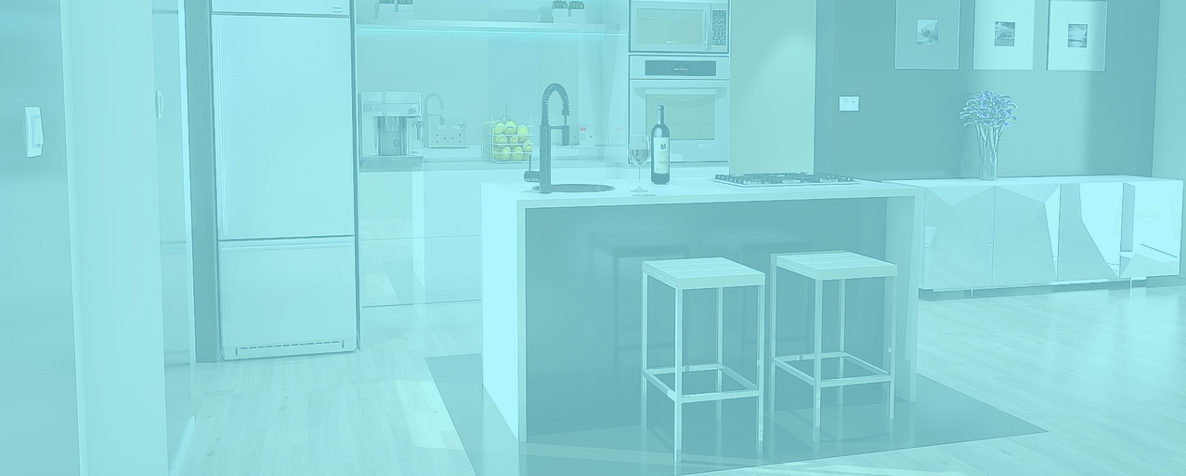
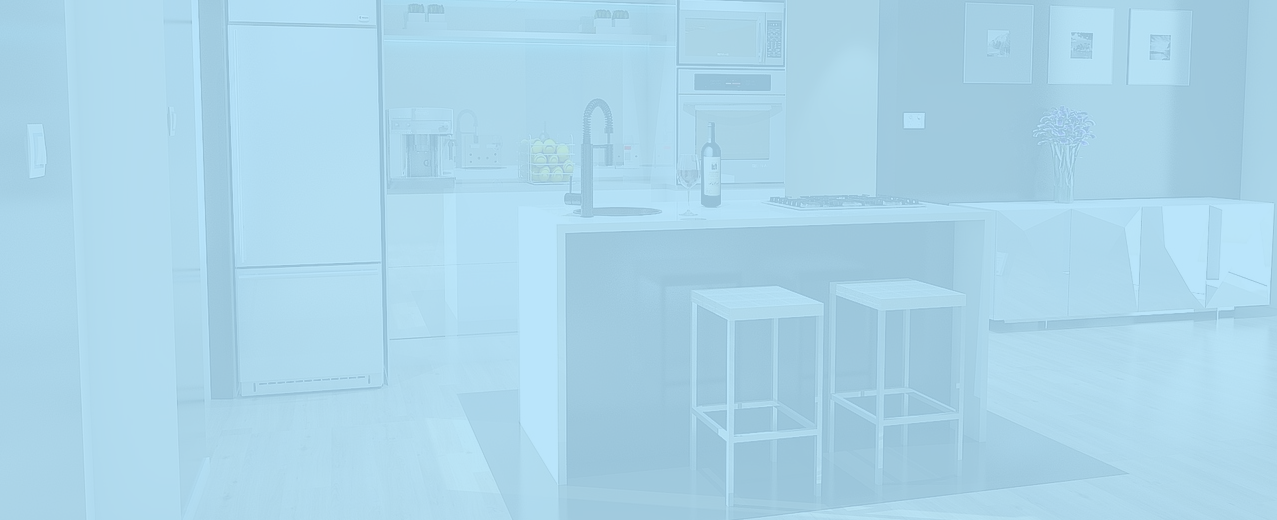
changed some of the homepage stuff

diff --git a/index.htm b/index.htm
@@ -123,7 +123,7 @@
                     <!-- <h2 class="pb-1">The Only Medical Grade Water Ionizer in the World</h2> -->
                     <h2 class="pb-1">Your Water Ionizer Can Be So Much More To You</h2>
                     <p>
-                        Go chemical free in your home in drinking, cooking, cleaning, and many more
+                        Go chemical free in your home for drinking, cooking, cleaning, and many more
                     </p>
                     <p>
                         Available in Singapore and worldwide
@@ -208,13 +208,42 @@
                         </p>
                         <p class="mobile-text-left long-text-x-margin">
                             One 300ml cup of <em>electrolyzed reduced</em> Kangen Water contains the same amount of antioxidants as 2.27kg of blueberries.
-                        </p>
-                        <!-- <a class="btn btn-lg border btn-info border-turquoise-button py-2 px-4 mt-5 mb-4" href="https://www.kangenwizglobal.com/products" role="button"><i class="fas fa-shopping-cart"></i> See Products</a> -->
+                        </p> 
                     </div>
                 </div>          
             </section>
 
-            
+            <!-- Antioxidant property -->
+            <!-- <section class="container-fluid colored-banner">
+                <div class="container-style">
+                    <div class="row">
+                        <div class="col-lg-6 col-sm-6 mt-lg-2 mt-md-2">
+                            <h2>The best investment you can make on yourself</h2>
+                            <p class="mobile-text-left">
+                                There is no point earning money or chasing material things if you don't have the health to enjoy it. 
+                            </p>
+                            <p class="mobile-text-left">
+                                Kangen water ionizers are the only ionizers in the world that can provide you with health benefits 
+                                such as:
+                            </p>
+                            <ul>
+                                <li>Stronger immune system</li>
+                                <li>Lower blood cholesterol</li>
+                                <li>Anti-oxidation (anti-aging)</li>
+                                <li>and more.</li>
+                            </ul>
+                            <p class="mobile-text-left">
+                                One 300ml cup of <em>electrolyzed reduced</em> Kangen Water contains the same amount of antioxidants as 2.27kg of blueberries.
+                            </p>
+                        </div>
+                        <div class="col-lg-6 col-sm-6">
+                            <img class="img-fluid pt-1" src="Pictures/ORP Chart.png" alt="Kangen Wiz 8 Water Machine (Best Among Medical Alkaline Water Ionizers)">
+                        </div>
+                        <a class="btn btn-lg border btn-info border-turquoise-button py-2 px-4 mt-5 mb-4" href="https://www.kangenwizglobal.com/products" role="button"><i class="fas fa-shopping-cart"></i> See Products</a> -->
+                    <!-- </div>
+                </div>
+            </section> -->
+
             <!--What experts say-->
             <section class="container-fluid">
                 <div class="container-style">
@@ -484,7 +513,7 @@
             </section>
 
             <!--Which Kangen water machine is right for you?-->
-            <section class="container-fluid colored-banner picture-background">
+            <section class="container-fluid colored-banner home-background">
                 <div class="container-style">
 
                     <h2>Get the Best Water Ionizer for Yourself</h2>

diff --git a/css/homestyle.css b/css/homestyle.css
@@ -28,7 +28,7 @@ body {
     height: 3.5rem;
     bottom: 1.6rem;
     right: 1.6rem;
-    background-color:#25d366;
+    background-color:#C7FAA2;
     border-radius: 3rem;
     text-align: center;
     font-size: 2rem;
@@ -37,20 +37,25 @@ body {
 }
 
 .wa-button a:link {
-    color:#FFF;
+    color:black;
 }
 
 .wa-button a:visited {
-    color:#FFF;
+    color:black;
 }
 
 .wa-button i {
 	margin-top: 0.75rem;
 }
 
-.navbar {
-    background-color: #ddf3f5;
+.colored-banner, .navbar {
+    background-color: #AFE1FA;
 }
+/* 
+.navbar.scrolled {
+    background-color: #AFE1FA !important;
+    transition: background-color 700ms linear;
+} */
 
 .navbar-nav {
     margin-left: auto;
@@ -62,11 +67,6 @@ body {
     }
 }
 
-.navbar.scrolled {
-    background-color: #c8f5f7 !important;
-    transition: background-color 1500ms linear;
-}
-
 .navbar-brand {
     font-size: 1.2rem;
     font-family: 'Noto Sans JP', sans-serif;
@@ -74,9 +74,13 @@ body {
 }
 
 .navbar-brand img {
-    height: 40px;
-    width: 40px;
+    height: 30px;
+    width: 30px;
 }
+
+/* .navbar-nav {
+    font-color: black;
+} */
 
 /******** Default font sizes & text margins for screens with width <991px ********/
 .nav-link {
@@ -120,18 +124,6 @@ p, li, .btn-lg {
     line-height: 2rem;
 }
 
-/* in Stay Young For A Long While */
-.antioxidant-text {
-    color: rgb(226, 221, 221);
-    padding-top: 1rem;
-    margin: 0 6.2rem 0 6rem;
-    font-size: 1.2rem;
-}
-
-.antioxidant-text-enlarge {
-    color: white;
-    font-size: 1.48rem;
-}
 
 /******** Font sizes & text margins for tablet screens ********/
 @media screen and (min-width: 991px) {
@@ -224,9 +216,9 @@ a:active {
 }
 
 /* Only the big FontAwesome icons become this color */
-i.fa-5x {
+/* i.fa-5x {
     color:#e84a5f;
-}
+} */
 
 
 /******************* Container styles *******************/
@@ -272,10 +264,6 @@ i.fa-5x {
     .container-style {
         padding: 16% 1%;
     }
-}
-
-.colored-banner {
-    background-color: #ddf3f5;
 }
 
 .diluted-banner-text {
@@ -380,6 +368,13 @@ i.fa-5x {
         max-width: 8rem;
     }
 } */
+
+
+/******************* Stay Young For A Long While *******************/
+.col-lg-6 ul {
+    padding-left: 0;
+    list-style-position: inside;
+}
 
 
 /******************* More than Just Drinking *******************/
@@ -891,22 +886,6 @@ ol.carousel-indicators li.active {
 }
 
 
-/******************* Stay Young For A Long While *******************/
-
-.blueberries-banner {
-    background-image: url(Fresh-Blueberries.PNG);
-    background-repeat: no-repeat;
-    background-size: cover;
-    /* width: 90%; */
-    /* padding-top: 3rem;
-    padding-bottom: 3rem; */
-}
-
-/* .border-yellow-button {
-    border-color: #dba80c !important;
-} */
-
-
 /*********** Which Kangen Water Ionizer is right for you? ***********/
 .product-column {
     padding-left: 0px;
@@ -976,7 +955,7 @@ ol.carousel-indicators li.active {
     background-color: #35b5c8;
 }
 
-.picture-background {
+.home-background {
     background-image: url(Application-Home.PNG);
     background-repeat: no-repeat;
     background-size: cover;
